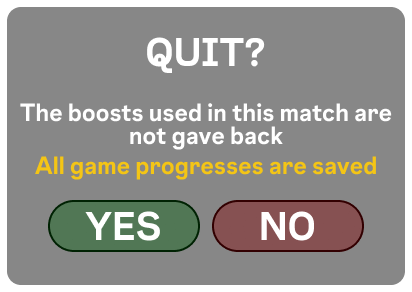
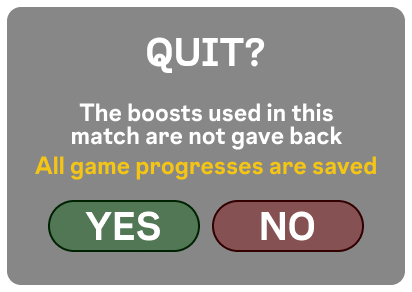
v 1.4.7 - lavoro 23/01/2026 - luca

Changed region(s): [[0.0291, 0.339, 0.9612, 0.524]]

diff --git a/core/src/main/sorgente/Game/GameInput.java b/core/src/main/sorgente/Game/GameInput.java
@@ -33,12 +33,15 @@ public class GameInput implements InputProcessor {
     protected boolean isBtnExitClicked;
     protected boolean isBtnExitHover;
     protected boolean isHole;
-
+    // yes/no quit e riavvio partita
     protected boolean btnNoExit;
     protected boolean btnYesExit;
-
+    // hover pulsante X quit
     protected boolean isBtnNoExitHover;
     protected boolean isBtnYesExitHover;
+
+    // flag per la schermata di quit
+    protected static boolean isQuitOpen;
 
     // --- delay & transition (no threads) ---
     // visual click feedback timer (resets clicked flags after a short delay)
@@ -54,8 +57,10 @@ public class GameInput implements InputProcessor {
 
     // actions
     private static final int ACT_RESTART_GAME = 1;
+    private static final int ACT_EXIT_TO_LOBBY = 2;
+    private static final int ACT_CLOSE_QUIT_CONTINUE = 3;
 
-    // requests consumed by gameui
+    // requests consumed by GameUI
     private boolean requestExitToLobby = false;
     private boolean requestRestartGame = false;
 
@@ -131,6 +136,8 @@ public class GameInput implements InputProcessor {
         btnPredict      = new Rectangle(506,150,50,50);
         btnTarget       = new Rectangle(581,150,50,50);
         btnUndo         = new Rectangle(656,150,50,50);
+
+        isQuitOpen=false;
     }
 
     // reset boosters
@@ -145,9 +152,13 @@ public class GameInput implements InputProcessor {
 
     // schedule a delayed action (used to add a short delay after a click, like in LobbyInput)
     private void scheduleAction() {
+        scheduleAction(ACT_RESTART_GAME);
+    }
+
+    void scheduleAction(int act) {
         pendingAction = true;
-        pendingAct = GameInput.ACT_RESTART_GAME;
-        pendingDelay = (float) 0.2;
+        pendingAct = act;
+        pendingDelay = 0.2f;
     }
 
     // update timers (call once per frame from gameui.render)
@@ -170,11 +181,23 @@ public class GameInput implements InputProcessor {
     }
 
     private void executePendingAction(int act) {
-        // re-enable inputs (we're still on the same screen)
+        // re-enable inputs (we're still on the same screen unless GameUI switches)
         setInputEnabled(true);
 
         if (act == ACT_RESTART_GAME) {
             requestRestartGame = true;
+            return;
+        }
+
+        if (act == ACT_EXIT_TO_LOBBY) {
+            requestExitToLobby = true;
+            return;
+        }
+
+        if (act == ACT_CLOSE_QUIT_CONTINUE) {
+            isQuitOpen = false;
+            requestExitToLobby = false;
+            setGridEnabled(true);
         }
     }
 
@@ -262,8 +285,7 @@ public class GameInput implements InputProcessor {
 
 
 
-    private void activatePowerUp(String type)
-    {
+    private void activatePowerUp(String type) {
 
         if (!powerUpsEnabled) { log.info("Power-up disabilitati in Gravity3"); return; }
 
@@ -358,41 +380,61 @@ public class GameInput implements InputProcessor {
 
     private boolean handleUiClick(int x, int y) {
 
-        // exit button (top-right)
-        if (exit.contains(x, y)) {
-            clicked();
+        // exit button (top-right) -> opens QUIT modal
+        if (exit.contains(x, y) && !isQuitOpen && !GameUI.isMatchOver) {
             isBtnExitClicked = true;
             clickedTimer = 0.15f;
 
-            // request screen transition to lobby (handled in gameui with its own transition delay)
-            setInputEnabled(false);
-            requestExitToLobby = true;
-            return true;
+            isQuitOpen = true;
+
+            // modal: block grid + any other click targets (handled by swallowing below)
+            setGridEnabled(false);
+            return clicked();
         }
 
-        // match over dialog (yes/no)
-        if (GameUI.isMatchOver) {
+        // modal dialogs (match over OR quit): only YES/NO are clickable, everything else is ignored
+        if (GameUI.isMatchOver || isQuitOpen) {
+
+            // CLICK NO
             if (btn_no.contains(x, y)) {
-                clicked();
                 btnNoExit = true;
                 clickedTimer = 0.15f;
 
-                // go back to lobby
+                // block inputs during delay
                 setInputEnabled(false);
-                requestExitToLobby = true;
-                return true;
+
+                if (isQuitOpen) {
+                    // QUIT: NO = continue (close modal after delay)
+                    scheduleAction(ACT_CLOSE_QUIT_CONTINUE);
+                } else {
+                    // MATCH OVER: NO = back to lobby
+                    scheduleAction(ACT_EXIT_TO_LOBBY);
+                }
+
+                return clicked();
             }
 
+            // CLICK YES
             if (btn_yes.contains(x, y)) {
-                clicked();
                 btnYesExit = true;
                 clickedTimer = 0.15f;
 
-                // restart match with a short delay (like lobbyinput scheduleScreenChange)
+                // block inputs during delay
                 setInputEnabled(false);
-                scheduleAction();
-                return true;
+
+                if (isQuitOpen) {
+                    // QUIT: YES = back to lobby
+                    scheduleAction(ACT_EXIT_TO_LOBBY);
+                } else {
+                    // MATCH OVER: YES = restart
+                    scheduleAction(ACT_RESTART_GAME);
+                }
+
+                return clicked();
             }
+
+            // swallow any other click while modal is open
+            return true;
         }
 
         return false;
@@ -403,16 +445,14 @@ public class GameInput implements InputProcessor {
         gridEnabled = enabled;
         if (!enabled) isHole = false; // pulizia: cancella click pendenti
     }
-    public boolean isGridEnabled() {
-        return gridEnabled;
-    }
 
     @Override
     public boolean mouseMoved(int x, int y) {
+        isBtnNoExitHover=isBtnYesExitHover=false;
 
-        isBtnExitHover = exit.contains(x, y);
+        isBtnExitHover = exit.contains(x, y) && !isQuitOpen && !GameUI.isMatchOver;
 
-        if (GameUI.isMatchOver) {
+        if (GameUI.isMatchOver || isQuitOpen) {
             isBtnNoExitHover = btn_no.contains(x, y);
             isBtnYesExitHover = btn_yes.contains(x, y);
         }

diff --git a/core/src/main/sorgente/Game/GameUI.java b/core/src/main/sorgente/Game/GameUI.java
@@ -50,6 +50,7 @@ public class GameUI extends ScreenAdapter implements ResourceLoader {
     private Texture lightExit;
     private Texture lightExitHover;
     private Texture lightReplay;
+    private Texture lightQuit;
     private Texture lightUserTimeLeftArea;
 
     // Dark Texture
@@ -59,6 +60,7 @@ public class GameUI extends ScreenAdapter implements ResourceLoader {
     private Texture darkExit;
     private Texture darkExitHover;
     private Texture darkReplay;
+    private Texture darkQuit;
     private Texture darkUserTimeLeftArea;
 
     // Editable Texture
@@ -68,7 +70,7 @@ public class GameUI extends ScreenAdapter implements ResourceLoader {
     // X quit partita
     private Texture exit;
     private Texture exitHover;
-    private Texture replay;
+    private Texture replay, quit;
     // pedine
     private Texture red;
     private Texture yellow;
@@ -339,6 +341,7 @@ public class GameUI extends ScreenAdapter implements ResourceLoader {
         lightExit = new Texture("ui/buttons/game/light/quit_light_clicked.png");
         lightExitHover = new Texture("ui/buttons/game/light/quit_light.png");
         lightReplay = new Texture("game_mods_screens/light/play_again_light.png");
+        lightQuit = new Texture("game_mods_screens/light/quit_light.png");
         lightUserTimeLeftArea=new Texture("game_mods_screens/light/remaining_time_area.png");
     }
 
@@ -349,6 +352,7 @@ public class GameUI extends ScreenAdapter implements ResourceLoader {
         darkExit = new Texture("ui/buttons/game/dark/quit_dark_clicked.png");
         darkExitHover = new Texture("ui/buttons/game/dark/quit_dark.png");
         darkReplay = new Texture("game_mods_screens/dark/play_again_dark.png");
+        darkQuit = new Texture("game_mods_screens/dark/quit_dark.png");
         darkUserTimeLeftArea = new Texture("game_mods_screens/dark/remaining_time_area.png");
     }
 
@@ -405,6 +409,7 @@ public class GameUI extends ScreenAdapter implements ResourceLoader {
             exit = darkExit;
             exitHover = darkExitHover;
             replay = darkReplay;
+            quit = darkQuit;
             userTimeLeftArea=darkUserTimeLeftArea;
         }
         else {
@@ -414,6 +419,7 @@ public class GameUI extends ScreenAdapter implements ResourceLoader {
             exit = lightExit;
             exitHover = lightExitHover;
             replay = lightReplay;
+            quit = lightQuit;
             userTimeLeftArea=lightUserTimeLeftArea;
         }
     }
@@ -1352,11 +1358,16 @@ public class GameUI extends ScreenAdapter implements ResourceLoader {
         // finestra riavvio/chiusura gioco => mostrata solo alla fine di una partita
         draw(replay, isMatchOver, 294, 204);
 
-        // partita conclusa
-        if (isMatchOver) {
-            // testo vittoria/sconfitta
-            if (victory) Fonts.draw(screen, "VICTORY", 415, 459, Fonts.bold40); // vittoria
-            else Fonts.draw(screen, "DEFEAT", 425, 459, Fonts.bold40); // sconfitta
+        // finestra quit match
+        draw(quit, GameInput.isQuitOpen, 294, 204);
+
+        // bottoni yes/no sia per match-over che per quit
+        if (isMatchOver || GameInput.isQuitOpen) {
+
+            if (isMatchOver) {
+                if (victory) Fonts.draw(screen, "VICTORY", 415, 459, Fonts.bold40);
+                else Fonts.draw(screen, "DEFEAT", 425, 459, Fonts.bold40);
+            }
 
             draw(btn_yes, gameInput.isBtnYesExitHover, 342, 244);
             draw(btn_yes_clicked, gameInput.btnYesExit, 342, 244);
@@ -1365,7 +1376,7 @@ public class GameUI extends ScreenAdapter implements ResourceLoader {
             draw(btn_no_clicked, gameInput.btnNoExit, 506, 244);
 
             // reset gioco per la prossima partita (con delay)
-            if (gameInput.consumeRestartRequested()) resetGame();
+            if (isMatchOver && gameInput.consumeRestartRequested()) resetGame();
         }
 
         // reset in caso di pareggio

diff --git a/management_docs/versions_infos/beta 1.4.7.md b/management_docs/versions_infos/beta 1.4.7.md
@@ -1,0 +1,3 @@
+Version Beta 1.4.7
+
+* creata la schermata in sovra impressione per confermare il quit di una partita in corso
